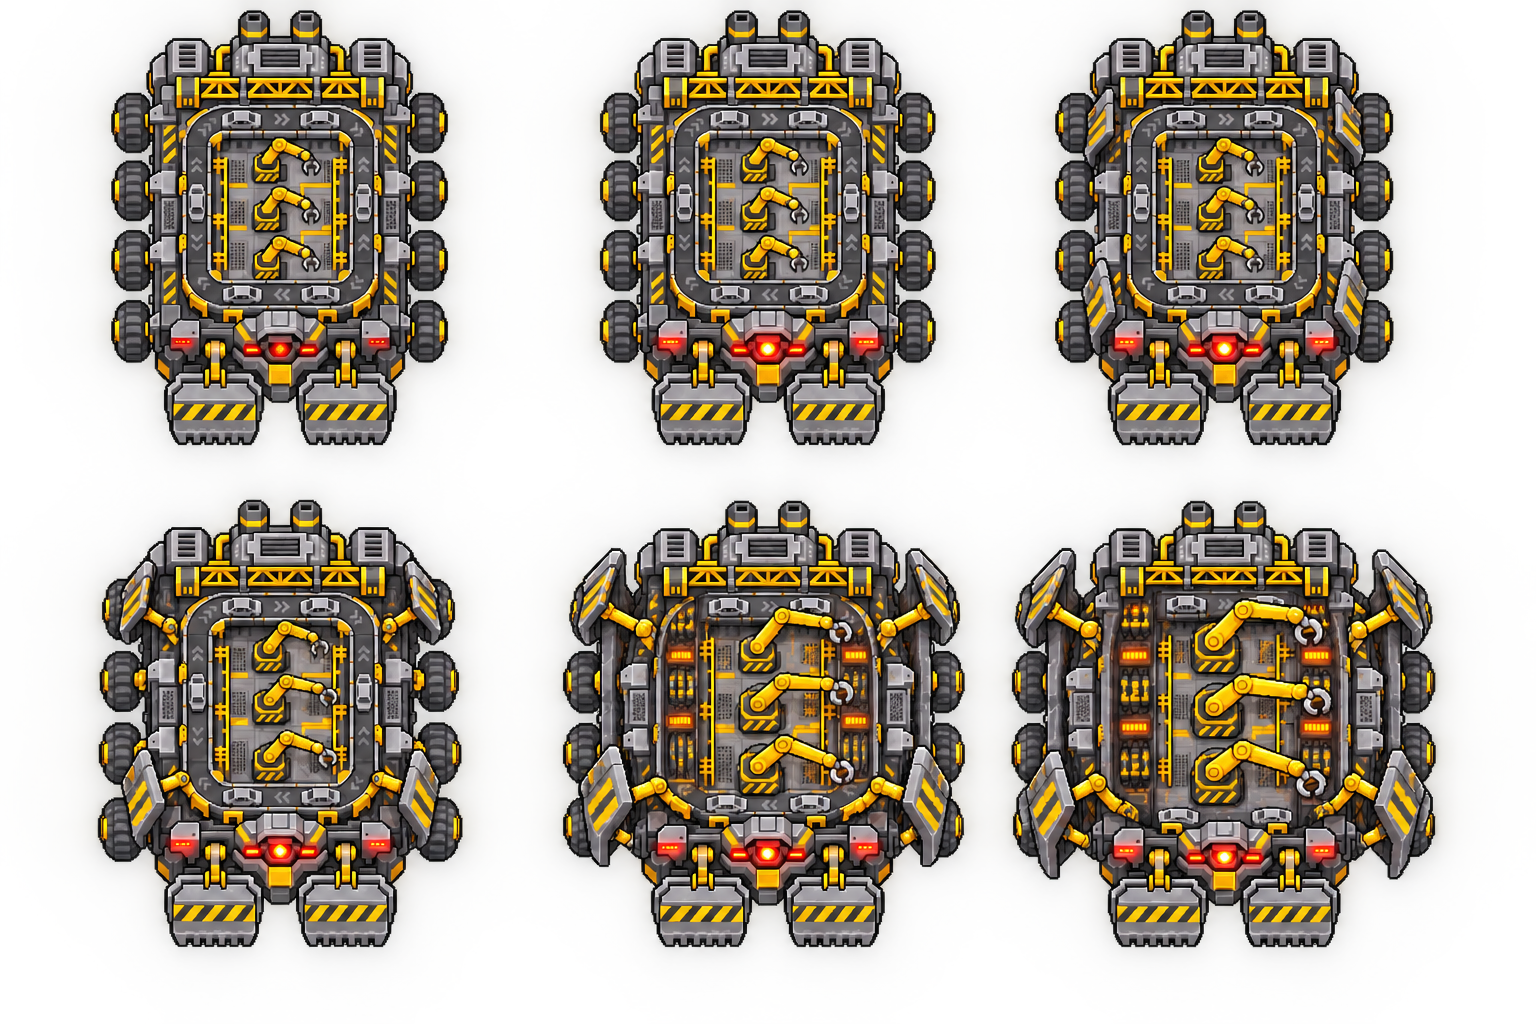
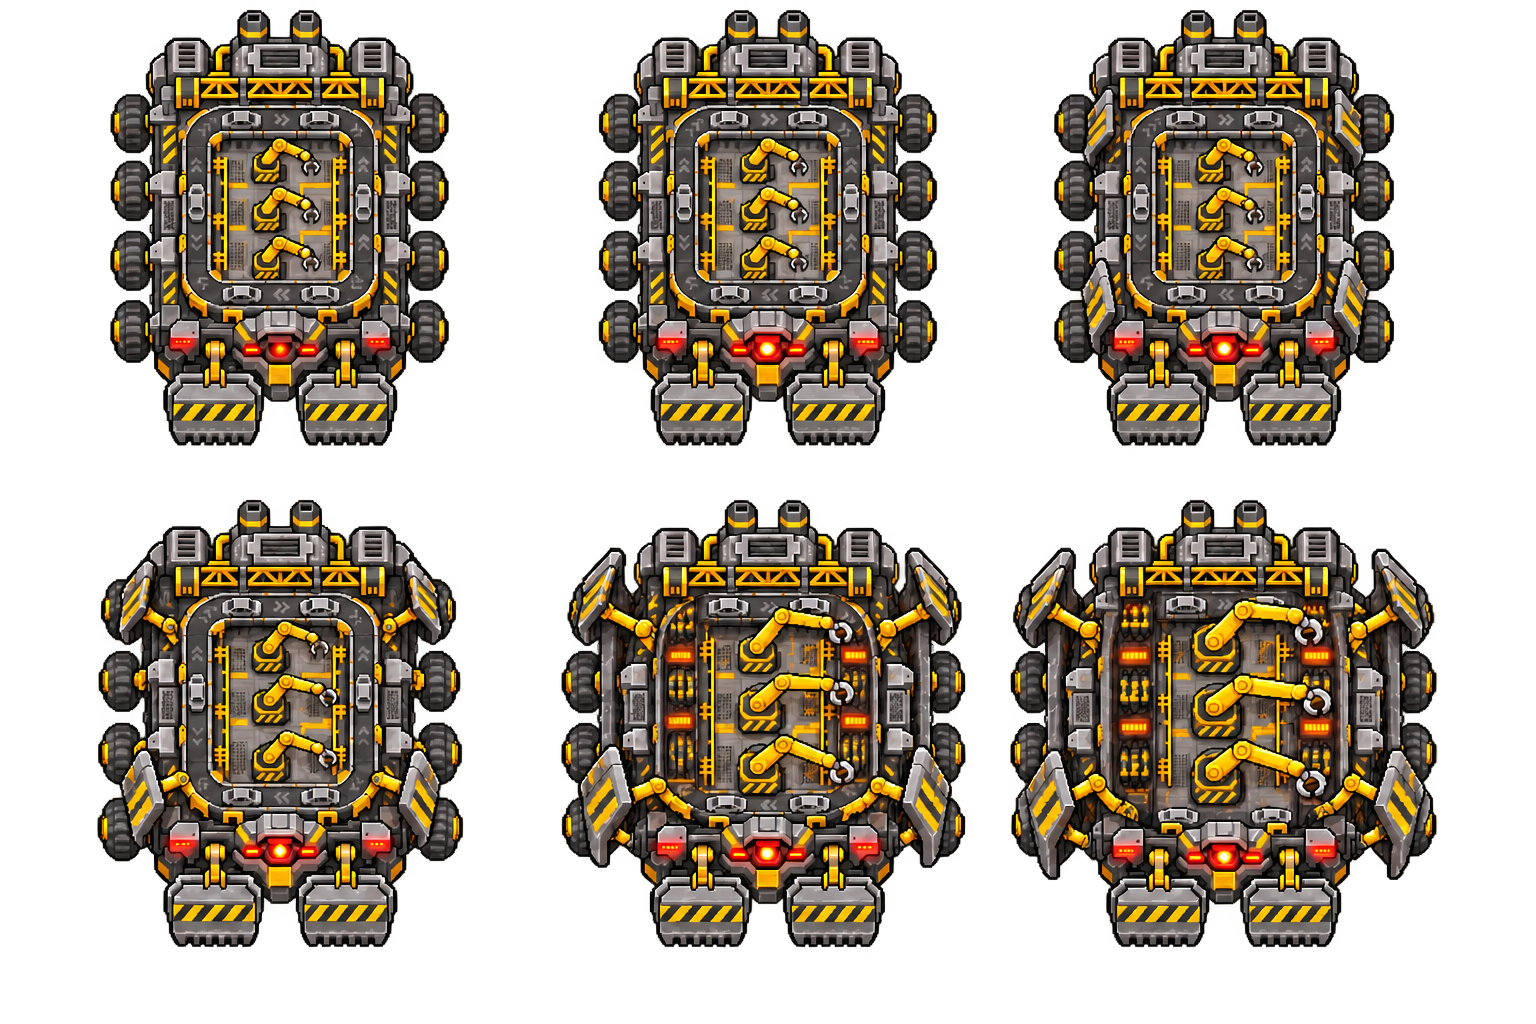
전환 시트 투명 배경과 중심점 보정 데이터 및 미리보기 추가
5종 30프레임 좌표와 PNG 알파 및 JS 구문 확인. 메인 게임 연결 확인 못 함.

diff --git a/assets/bosses/transition-phase2/frames.js b/assets/bosses/transition-phase2/frames.js
@@ -1,0 +1,272 @@
+const TRANSITION_FRAMES = {
+  "steel-factory": {
+    "width": 1536,
+    "frames": [
+      {
+        "sh": 512,
+        "sx": 0,
+        "cx": 273,
+        "cy": 246,
+        "sy": 0,
+        "sw": 512
+      },
+      {
+        "sh": 512,
+        "sx": 512,
+        "cx": 273,
+        "cy": 246,
+        "sy": 0,
+        "sw": 512
+      },
+      {
+        "sh": 512,
+        "sx": 1024,
+        "cx": 273,
+        "cy": 246,
+        "sy": 0,
+        "sw": 512
+      },
+      {
+        "sh": 512,
+        "sx": 0,
+        "cx": 273,
+        "cy": 246,
+        "sy": 512,
+        "sw": 512
+      },
+      {
+        "sh": 512,
+        "sx": 512,
+        "cx": 273,
+        "cy": 246,
+        "sy": 512,
+        "sw": 512
+      },
+      {
+        "sh": 512,
+        "sx": 1024,
+        "cx": 271.5,
+        "cy": 246,
+        "sy": 512,
+        "sw": 512
+      }
+    ],
+    "height": 1024
+  },
+  "auto-factory": {
+    "width": 1536,
+    "frames": [
+      {
+        "sh": 512,
+        "sx": 0,
+        "cx": 279,
+        "cy": 261,
+        "sy": 0,
+        "sw": 512
+      },
+      {
+        "sh": 512,
+        "sx": 512,
+        "cx": 255,
+        "cy": 261,
+        "sy": 0,
+        "sw": 512
+      },
+      {
+        "sh": 512,
+        "sx": 1024,
+        "cx": 199.5,
+        "cy": 261,
+        "sy": 0,
+        "sw": 512
+      },
+      {
+        "sh": 512,
+        "sx": 0,
+        "cx": 280.5,
+        "cy": 216,
+        "sy": 512,
+        "sw": 512
+      },
+      {
+        "sh": 512,
+        "sx": 512,
+        "cx": 280.5,
+        "cy": 216,
+        "sy": 512,
+        "sw": 512
+      },
+      {
+        "sh": 512,
+        "sx": 1024,
+        "cx": 205.5,
+        "cy": 216,
+        "sy": 512,
+        "sw": 512
+      }
+    ],
+    "height": 1024
+  },
+  "chemical-factory": {
+    "width": 1536,
+    "frames": [
+      {
+        "sh": 512,
+        "sx": 0,
+        "cx": 255,
+        "cy": 234,
+        "sy": 0,
+        "sw": 512
+      },
+      {
+        "sh": 512,
+        "sx": 512,
+        "cx": 253.5,
+        "cy": 234,
+        "sy": 0,
+        "sw": 512
+      },
+      {
+        "sh": 512,
+        "sx": 1024,
+        "cx": 255,
+        "cy": 234,
+        "sy": 0,
+        "sw": 512
+      },
+      {
+        "sh": 512,
+        "sx": 0,
+        "cx": 255,
+        "cy": 234,
+        "sy": 512,
+        "sw": 512
+      },
+      {
+        "sh": 512,
+        "sx": 512,
+        "cx": 253.5,
+        "cy": 234,
+        "sy": 512,
+        "sw": 512
+      },
+      {
+        "sh": 512,
+        "sx": 1024,
+        "cx": 255,
+        "cy": 234,
+        "sy": 512,
+        "sw": 512
+      }
+    ],
+    "height": 1024
+  },
+  "executioner": {
+    "width": 1536,
+    "frames": [
+      {
+        "sh": 512,
+        "sx": 0,
+        "cx": 258,
+        "cy": 246,
+        "sy": 0,
+        "sw": 512
+      },
+      {
+        "sh": 512,
+        "sx": 512,
+        "cx": 258,
+        "cy": 246,
+        "sy": 0,
+        "sw": 512
+      },
+      {
+        "sh": 512,
+        "sx": 1024,
+        "cx": 258,
+        "cy": 246,
+        "sy": 0,
+        "sw": 512
+      },
+      {
+        "sh": 512,
+        "sx": 0,
+        "cx": 258,
+        "cy": 244.5,
+        "sy": 512,
+        "sw": 512
+      },
+      {
+        "sh": 512,
+        "sx": 512,
+        "cx": 256.5,
+        "cy": 240,
+        "sy": 512,
+        "sw": 512
+      },
+      {
+        "sh": 512,
+        "sx": 1024,
+        "cx": 256.5,
+        "cy": 237,
+        "sy": 512,
+        "sw": 512
+      }
+    ],
+    "height": 1024
+  },
+  "central-ai": {
+    "width": 1536,
+    "frames": [
+      {
+        "sh": 512,
+        "sx": 0,
+        "cx": 271.5,
+        "cy": 255,
+        "sy": 0,
+        "sw": 512
+      },
+      {
+        "sh": 512,
+        "sx": 512,
+        "cx": 240,
+        "cy": 255,
+        "sy": 0,
+        "sw": 512
+      },
+      {
+        "sh": 512,
+        "sx": 1024,
+        "cx": 208.5,
+        "cy": 255,
+        "sy": 0,
+        "sw": 512
+      },
+      {
+        "sh": 512,
+        "sx": 0,
+        "cx": 271.5,
+        "cy": 255,
+        "sy": 512,
+        "sw": 512
+      },
+      {
+        "sh": 512,
+        "sx": 512,
+        "cx": 240,
+        "cy": 255,
+        "sy": 512,
+        "sw": 512
+      },
+      {
+        "sh": 512,
+        "sx": 1024,
+        "cx": 208.5,
+        "cy": 255,
+        "sy": 512,
+        "sw": 512
+      }
+    ],
+    "height": 1024
+  }
+};

diff --git a/assets/bosses/transition-phase2/preview.html b/assets/bosses/transition-phase2/preview.html
@@ -1,0 +1,30 @@
+<!doctype html><meta charset="utf-8"><title>보스 전환 미리보기</title>
+<style>body{background:#263e42;color:white;font:16px system-ui;text-align:center}canvas{background:repeating-conic-gradient(#33474a 0% 25%,#3a5154 0% 50%) 0/32px 32px;max-width:95vw}button,select{font:inherit;margin:12px;padding:8px}</style>
+<h1>보스 전환 미리보기</h1><select id="boss"></select><button id="play">다시 재생</button><p id="info">불러오는 중</p><canvas width="600" height="600"></canvas>
+<script src="frames.js"></script><script>
+const names=['steel-factory','auto-factory','chemical-factory','executioner','central-ai'];
+const labels=['철강공장','자동차공장','화학공장','집행자','중앙 AI'];
+const sel=document.querySelector('select'),ctx=document.querySelector('canvas').getContext('2d');
+let image,frames=[],start=0,token=0;
+names.forEach((n,i)=>sel.add(new Option(labels[i],n)));
+function load(){
+  const own=++token,im=new Image();frames=[];image=null;
+  im.onload=()=>{
+    if(own!==token)return;
+    frames=TRANSITION_FRAMES[sel.value].frames;image=im;start=performance.now();
+  };
+  im.onerror=()=>document.querySelector('#info').textContent='이미지를 불러오지 못했습니다';
+  im.src=sel.value+'.png';
+}
+sel.onchange=load;document.querySelector('button').onclick=()=>start=performance.now();
+function draw(now){
+  ctx.clearRect(0,0,600,600);
+  if(image){
+    const f=frames[Math.min(5,Math.floor((now-start)/150))],scale=460/Math.max(image.width/3,image.height/2);
+    ctx.imageSmoothingEnabled=false;
+    ctx.drawImage(image,f.sx,f.sy,f.sw,f.sh,300-f.cx*scale,300-f.cy*scale,f.sw*scale,f.sh*scale);
+  }
+  requestAnimationFrame(draw);
+}
+load();requestAnimationFrame(draw);
+</script>

diff --git a/assets/bosses/transition-phase2/README.md b/assets/bosses/transition-phase2/README.md
@@ -1,14 +1,19 @@
-# 1→2페이즈 전환 연출 초안
+# 1→2페이즈 전환
 
-각 PNG는 3열×2행, 6프레임이다. 위 행 왼쪽부터 오른쪽, 아래 행 왼쪽부터 오른쪽으로 한 번 재생한다. 전환 시간 초안은 프레임당 0.15초, 총 0.9초다. 완료 후 2페이즈 이동 시트로 전환한다.
+5종 모두 3열×2행, 6프레임이다. 위 행 왼쪽부터 재생하고 아래 행으로 이어 간다. 바깥 모서리 알파 0을 확인했다. 기계 주변에는 반투명 발광 효과가 있다.
 
-- 철강공장 — 경고등이 켜지고 롤러가 달아오른다.
-- 자동차공장 — 외벽과 조립팔을 펼친다.
-- 화학공장 — 탱크에 금이 가고 약품 색이 변한다.
-- 집행자 — 장갑을 열고 붉은 내부 장치가 드러난다.
-- 중앙 AI — 붉은 코어가 두 디지털 코어로 분리된다.
+[재생 미리보기](./preview.html)를 브라우저에서 열어 보스를 선택한다. 다시 재생 버튼으로 반복 확인한다. frames.js는 셀 좌표와 불투명 실루엣 중심점을 담는다. 알파 128 이상 픽셀을 3픽셀 간격으로 측정해 그리기 오프셋을 계산했다. 같은 배율을 유지해 장갑이 펼쳐지는 변화가 보이게 한다.
 
-이 파일은 전환 동작 참고용 초안이다. 배경 색과 광택이 남아 있어 그대로 겹치면 직사각형 배경이 보일 수 있다. 투명 배경 정리와 프레임 중심점·배율 맞춤 후 게임용으로 사용한다. 2페이즈 이동 시트의 최종 외형과도 맞춰야 한다. 전환 방향은 화면 아래 기준 한 방향이다. 전환 중 피해 처리와 공격 정지는 보스 코드에서 정한다. 중앙 AI의 회복과 복제 적 생성도 코드에서 처리한다.
+## 중앙 전환 연출 규칙
+
+1. 체력 조건을 만족하면 한 번만 전환 상태로 들어간다. 기존 공격과 위험 지대를 정리한다.
+2. 보스를 전장 중앙으로 이동시켜 아래를 바라보게 한다.
+3. 조작과 적 공격을 잠시 멈추고 보스는 전환 중 피해를 받지 않는다.
+4. 카메라를 보스 중심으로 확대하고 프레임당 0.15초로 한 번 재생한다.
+5. 2페이즈 이동 시트의 아래 방향으로 바꾼 뒤 카메라를 복귀한다.
+6. 전투를 재개한다. 중앙 AI 복제와 회복은 전환당 한 번만 처리한다.
+
+이번 자료는 이미지, 보정 좌표 및 독립 재생 예제다. 메인 게임의 중앙 이동과 카메라 연출 연결은 후속 작업이다. 프레임 사이 부품 형태와 다음 이동 시트로 넘어갈 때의 외형 차이는 추가 조정이 필요할 수 있다. 중앙 AI는 배경 정리를 위해 단순화한 외형으로 다시 생성했다.
 
 ![철강공장](./steel-factory.png)
 ![자동차공장](./auto-factory.png)
